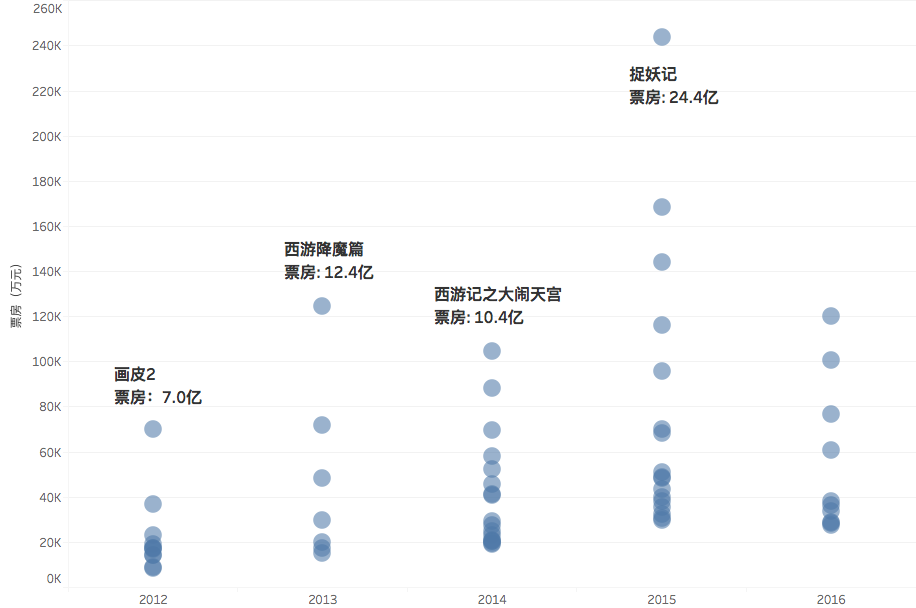
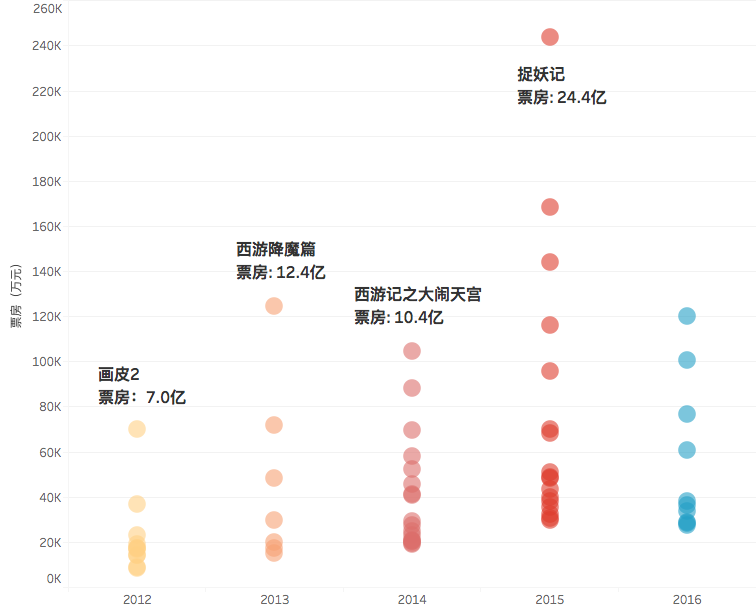
3

diff --git a/index.html b/index.html
@@ -117,7 +117,8 @@
                 </div>
                 <div class="text-center">
                     <h4>中国IP电影场均票房分布</h4>
-                  <div class='tableauPlaceholder' id='viz1482253557646' style='position: relative'><noscript><a href=' '>< img alt='仪表板 3 ' src='https:&#47;&#47;public.tableau.com&#47;static&#47;images&#47;IP&#47;IP33&#47;3&#47;1_rss.png' style='border: none' /></a ></noscript><object class='tableauViz'  style='display:none;'><param name='host_url' value='https%3A%2F%2Fpublic.tableau.com%2F' /> <param name='site_root' value='' /><param name='name' value='IP33&#47;3' /><param name='tabs' value='no' /><param name='toolbar' value='yes' /><param name='static_image' value='https:&#47;&#47;public.tableau.com&#47;static&#47;images&#47;IP&#47;IP33&#47;3&#47;1.png' /> <param name='animate_transition' value='yes' /><param name='display_static_image' value='yes' /><param name='display_spinner' value='yes' /><param name='display_overlay' value='yes' /><param name='display_count' value='yes' /></object></div>                <script type='text/javascript'>                    var divElement = document.getElementById('viz1482253557646');                    var vizElement = divElement.getElementsByTagName('object')[0];                    vizElement.style.width='100%';vizElement.style.height=(divElement.offsetWidth*0.75)+'px';                    var scriptElement = document.createElement('script');                    scriptElement.src = 'https://public.tableau.com/javascripts/api/viz_v1.js';                    vizElement.parentNode.insertBefore(scriptElement, vizElement);                </script>
+                  
+                    <img class="graphics img-responsive" src="assets/img/场均票房.png" />
                     <p class="source">
                         数据来源：中国电影发行放映协会
                     </p>
@@ -168,7 +169,8 @@
                      <h4> 中国 vs 好莱坞电影IP类型分布</h4>
                   
                     <div class="col-md-8 col-md-offset-2 col-sm-8 col-sm-offset-2">
-                       <div class='tableauPlaceholder' id='viz1482253874135' style='position: relative'><noscript><a href=' '>< img alt='仪表板 3 ' src='https:&#47;&#47;public.tableau.com&#47;static&#47;images&#47;IP&#47;IP34&#47;3&#47;1_rss.png' style='border: none' /></a ></noscript><object class='tableauViz'  style='display:none;'><param name='host_url' value='https%3A%2F%2Fpublic.tableau.com%2F' /> <param name='site_root' value='' /><param name='name' value='IP34&#47;3' /><param name='tabs' value='no' /><param name='toolbar' value='yes' /><param name='static_image' value='https:&#47;&#47;public.tableau.com&#47;static&#47;images&#47;IP&#47;IP34&#47;3&#47;1.png' /> <param name='animate_transition' value='yes' /><param name='display_static_image' value='yes' /><param name='display_spinner' value='yes' /><param name='display_overlay' value='yes' /><param name='display_count' value='yes' /></object></div>                <script type='text/javascript'>                    var divElement = document.getElementById('viz1482253874135');                    var vizElement = divElement.getElementsByTagName('object')[0];                    vizElement.style.width='100%';vizElement.style.height=(divElement.offsetWidth*0.75)+'px';                    var scriptElement = document.createElement('script');                    scriptElement.src = 'https://public.tableau.com/javascripts/api/viz_v1.js';                    vizElement.parentNode.insertBefore(scriptElement, vizElement);                </script>
+                      
+                    <img class="graphics img-responsive" src="assets/img/区域.png" />
                        
                         <p class="source">
                         数据来源：中国电影发行放映协会；the-numbers.com
